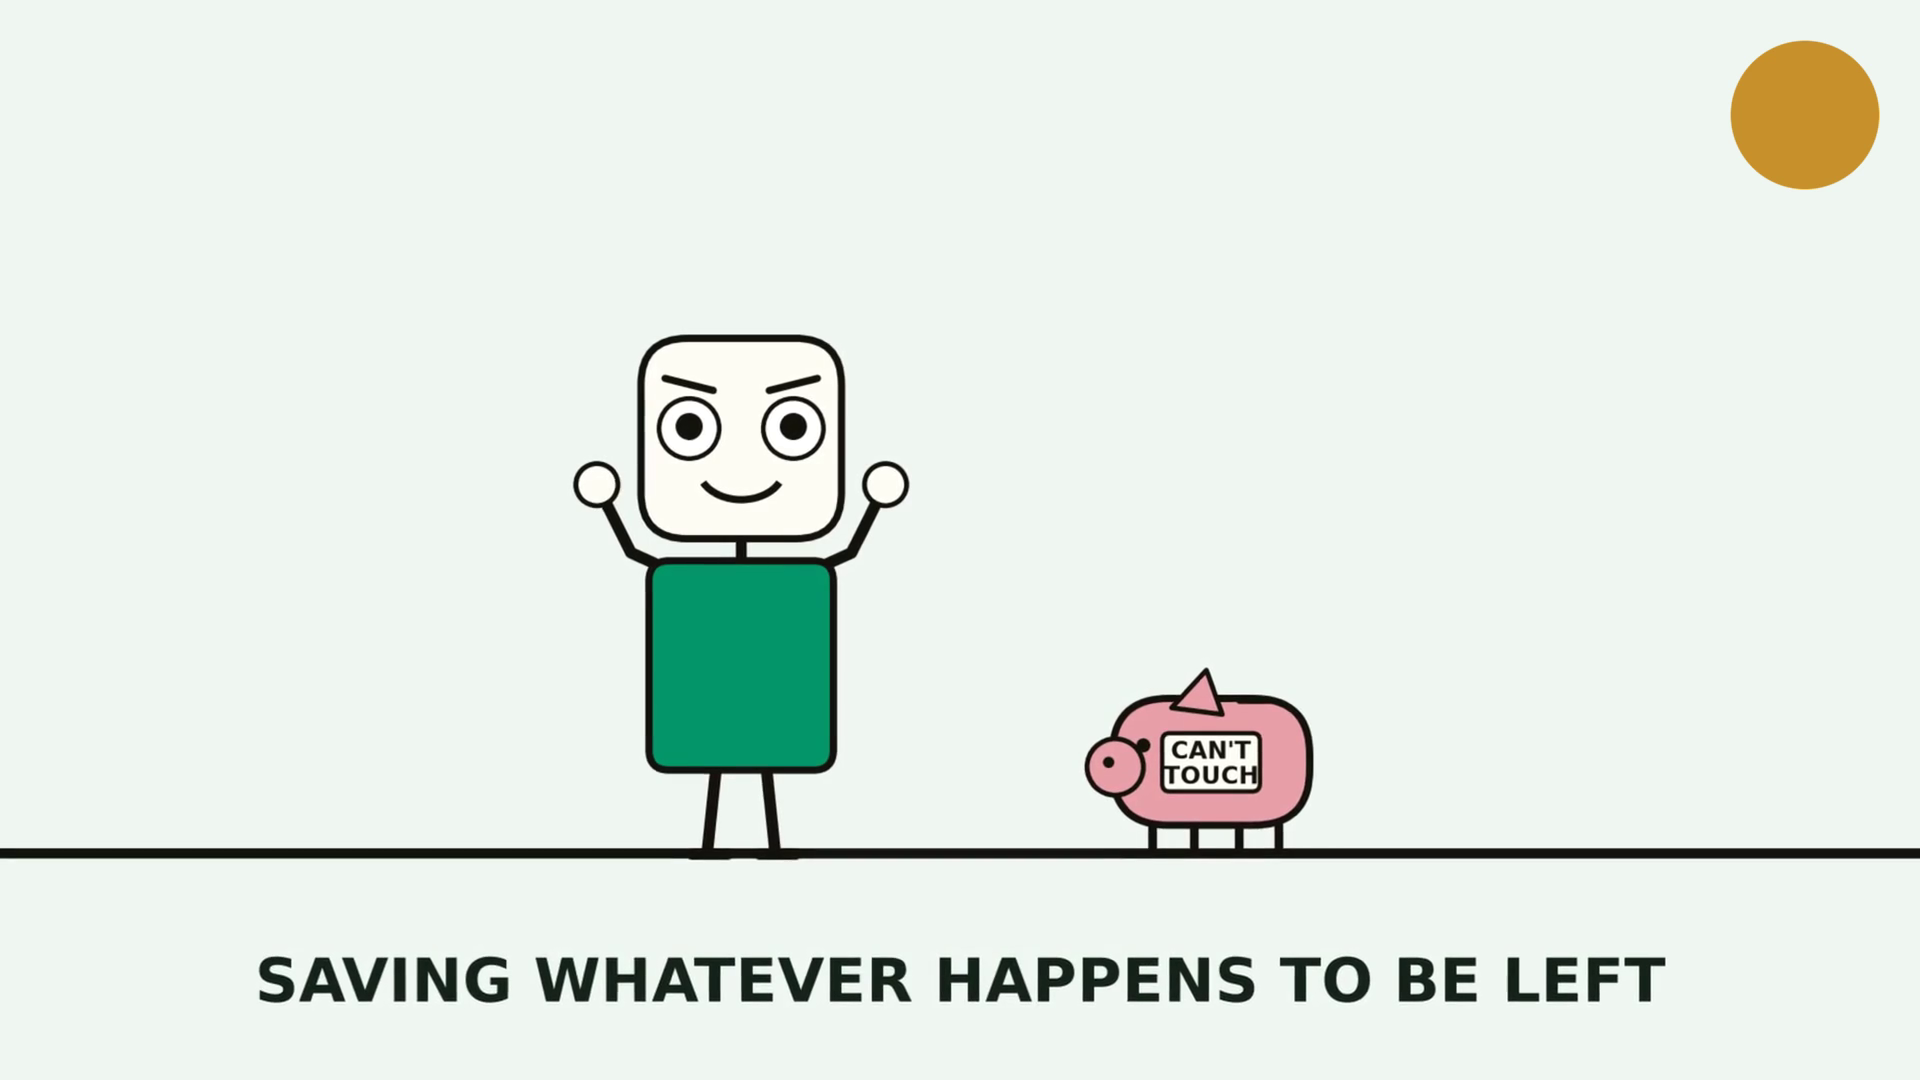
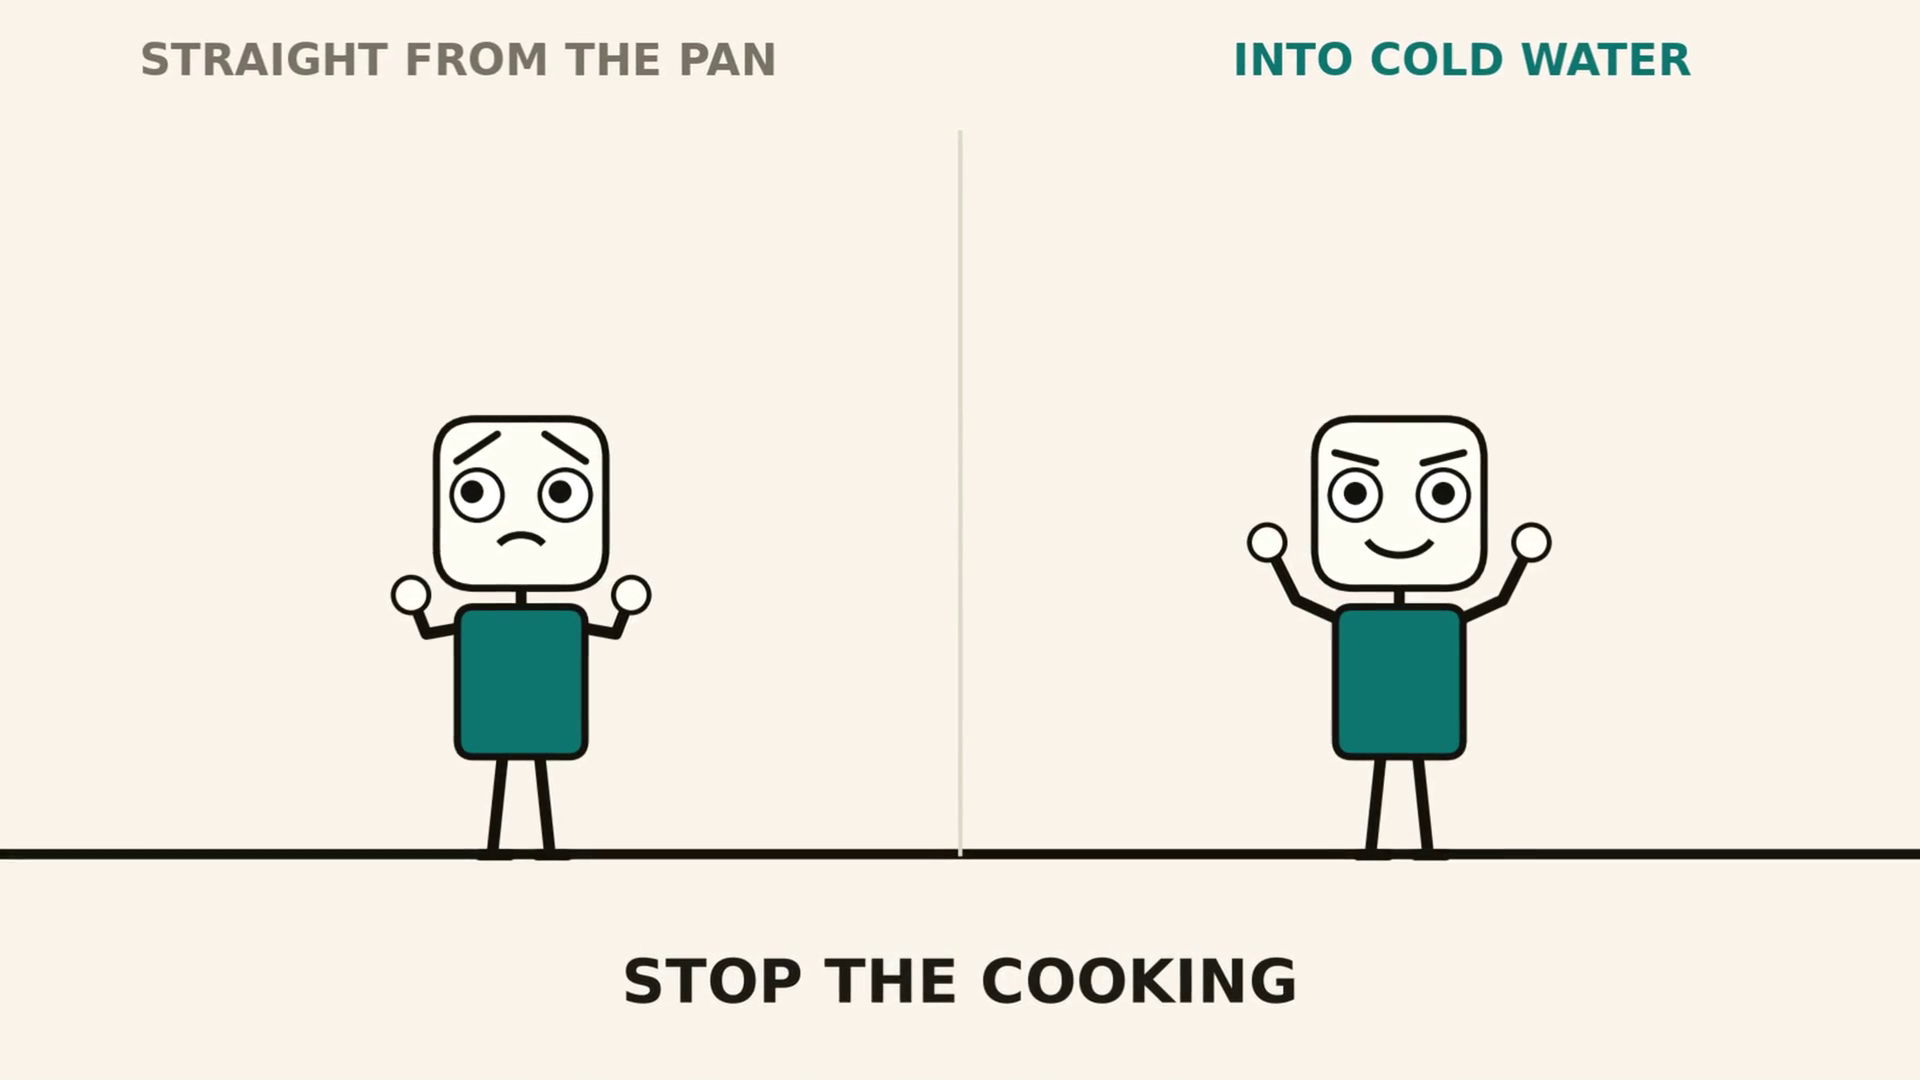
Replace the demo content, and make the split scene work for any subject
The example script, the screenshots and the README format section all
carried a real finance video's narration. They are now a short neutral
script about boiling an egg, and the screenshots are regenerated from a
project named demo by walking the actual first-run flow.

The split scene had coins and a money jar drawn into the layout itself,
so an egg script rendered dollar signs. Props there are now opt-in like
every other scene, and the two figures carry the before and after on
their own. Its labels are centred over their own half and shrink to fit,
which they did not do before: two long labels met in the middle.

Also: auto captions no longer end on a dangling word like THE, the first
project opens with the example script already loaded so Generate works
without writing anything, and the library wording no longer calls the
bundled tracks public domain, which they are not. They are original work
shipped under this repo's licence.

diff --git a/app/templates/index.html b/app/templates/index.html
@@ -19,16 +19,11 @@
   <p class="tagline">Write a script, pick a look, press Generate. Out comes a
   narrated video.</p>
 
+  {% if projects %}
   <section class="step">
     <h2><span class="stepnum">1</span>Project</h2>
-    <p class="hint">Each video is a project. Start a new one, or open one you
-    made before.</p>
-    <form class="row" method="post" action="/projects">
-      <input type="text" name="name" placeholder="Name the new video, like: credit scores"
-             required aria-label="New project name">
-      <button type="submit">Create</button>
-    </form>
-    {% if projects %}
+    <p class="hint">Each video is a project. Open one you made before, or start
+    a new one.</p>
     <ul class="projects">
       {% for p in projects %}
       <li>
@@ -37,8 +32,33 @@
       </li>
       {% endfor %}
     </ul>
-    {% endif %}
+    <form class="row" method="post" action="/projects">
+      <input type="text" name="name" placeholder="Name the next video"
+             required aria-label="New project name">
+      <button type="submit">Create</button>
+    </form>
   </section>
+
+  {% else %}
+  <section class="step">
+    <h2>Start here</h2>
+    <p>Every video you make is a <strong>project</strong>: one script, one
+    look, and the finished MP4, kept together in their own folder. You make a
+    new project for each video, and nothing is shared between them.</p>
+    <p class="hint">Your first project comes with a short example script
+    already written, so you can press Generate straight away and watch a real
+    video come out the other end. Once you have seen it work, delete the
+    example and write your own.</p>
+    <form class="row" method="post" action="/projects">
+      <input type="hidden" name="example" value="1">
+      <input type="text" name="name" value="demo" required
+             aria-label="Name for your first project">
+      <button type="submit">Create my first video</button>
+    </form>
+    <p class="hint">The first run downloads a voice for each line, so give it a
+    minute. After that, only the lines you change are made again.</p>
+  </section>
+  {% endif %}
 </main>
 </body>
 </html>

diff --git a/app/templates/project.html b/app/templates/project.html
@@ -3,7 +3,7 @@
 <head>
 <meta charset="utf-8">
 <meta name="viewport" content="width=device-width, initial-scale=1">
-<title>{{ name }} — script to vid</title>
+<title>{{ name }} - script to vid</title>
 <link rel="stylesheet" href="/static/style.css">
 <style>
 :root {
@@ -33,8 +33,9 @@
     <h2><span class="stepnum">2</span>Script</h2>
     <p class="hint">Blank lines separate beats. Start a line with # for a new
     chapter. Start a line with &gt; for a visual direction, like
-    <code>&gt; character: happy, cheer</code> or <code>&gt; prop: piggy</code>.
-    Plain paragraphs become narration.</p>
+    <code>&gt; character: happy, cheer</code> or
+    <code>&gt; caption: Words on screen</code>. Plain paragraphs become
+    narration.</p>
     <textarea id="script" spellcheck="false"
               placeholder="# My first chapter&#10;&#10;&gt; character: happy, cheer&#10;&#10;Write what you want the voice to say here.">{{ script }}</textarea>
     <p class="hint">
@@ -92,7 +93,7 @@
 
     {% if tracks %}
     <p class="hint" style="margin-top:18px"><strong>Pick from the starter
-    library.</strong> These are public domain, safe for monetised videos.</p>
+    library.</strong> These ship with the app and are free to use, including on a monetised channel.</p>
     <ul class="tracks">
       {% for t in tracks %}
       <li>

diff --git a/app/scenes.py b/app/scenes.py
@@ -128,26 +128,43 @@ def scene_bubbles(fig, b, T):
 
 
 def scene_split(fig, b, T):
-    """Before on the left, after on the right."""
+    """Before on the left, after on the right.
+
+    The two figures carry the contrast on their own, so a split works for any
+    subject. Props are drawn only when the script asks for one, scattered on
+    the left and gathered on the right.
+    """
     ax = _stage(fig)
     ch.ground(ax, GROUND_Y)
     ax.plot([0, 0], [GROUND_Y, 14.5], color=T.grid, lw=3, zorder=1)
 
-    _character(ax, {"cast_i": b.get("cast_i", 0)}, T, x=-11.5, s=1.35,
+    cast_i = b.get("cast_i", 0)
+    lx, rx = (-11.5, 11.5) if b.get("prop") else (-7.0, 7.0)
+    _character(ax, {"cast_i": cast_i}, T, x=lx, s=1.35,
                pose="shrug", expr="worried")
-    rng = np.random.default_rng(11)
-    for x, y in zip(rng.uniform(-7.5, -2.0, 6), rng.uniform(0.6, 2.2, 6)):
-        ch.prop_coin(ax, x, GROUND_Y + y, r=0.5)
-
-    _character(ax, {"cast_i": b.get("cast_i", 0)}, T, x=11.5, s=1.35,
+    _character(ax, {"cast_i": cast_i}, T, x=rx, s=1.35,
                pose="cheer", expr="happy")
-    ch.prop_jar(ax, 4.5, GROUND_Y, s=1.6, fill=0.8)
-    ch.prop_coin_stack(ax, 7.5, GROUND_Y + 0.55, n=4, r=0.5)
 
+    prop = b.get("prop")
+    if prop in ("coin", "coins"):
+        rng = np.random.default_rng(11)
+        for x, y in zip(rng.uniform(-7.5, -2.0, 6), rng.uniform(0.6, 2.2, 6)):
+            ch.prop_coin(ax, x, GROUND_Y + y, r=0.5)
+        ch.prop_coin_stack(ax, 6.0, GROUND_Y + 0.55, n=4, r=0.5)
+    elif prop == "jar":
+        ch.prop_jar(ax, -5.0, GROUND_Y, s=1.6, fill=0.1)
+        ch.prop_jar(ax, 5.0, GROUND_Y, s=1.6, fill=0.85)
+    elif prop == "piggy":
+        ch.prop_piggy(ax, -5.0, GROUND_Y, s=1.3)
+        ch.prop_piggy(ax, 5.0, GROUND_Y, s=1.3, label="FULL")
+
+    # each label is centred over its own half and shrunk to stay inside it,
+    # so two long labels cannot meet in the middle
     for x, text, col in ((-8.0, b.get("left", "Before"), T.dim),
                          (8.0, b.get("right", "After"), T.a2)):
-        ax.text(x, 15.6, text.upper(), ha="center", va="center",
-                fontsize=30, color=col, fontweight="bold")
+        t = ax.text(x, 15.6, text.upper(), ha="center", va="center",
+                    fontsize=30, color=col, fontweight="bold")
+        _fit(fig, t, 860)   # a half is 960 px wide at this stage scale
     _caption(fig, T, b.get("caption"))
 
 

diff --git a/tests/integration/test_routes.py b/tests/integration/test_routes.py
@@ -28,6 +28,42 @@ def test_create_project_redirects(client):
     shutil.rmtree(projects.path_of("route-test-99"), ignore_errors=True)
 
 
+def test_first_project_is_seeded_with_the_example(client):
+    """A new user must be able to press Generate without writing a script."""
+    import shutil
+    from app.script_parser import parse
+    try:
+        r = client.post("/projects", data={"name": "seeded demo", "example": "1"},
+                        follow_redirects=False)
+        assert r.status_code == 303
+        text = projects.script("seeded-demo")
+        assert text.strip(), "the first project should open with a script in it"
+        assert parse(text)["warnings"] == []
+    finally:
+        shutil.rmtree(projects.path_of("seeded-demo"), ignore_errors=True)
+
+
+def test_project_without_example_starts_blank(client):
+    import shutil
+    try:
+        client.post("/projects", data={"name": "blank one"},
+                    follow_redirects=False)
+        assert projects.script("blank-one") == ""
+    finally:
+        shutil.rmtree(projects.path_of("blank-one"), ignore_errors=True)
+
+
+def test_empty_state_explains_projects_and_offers_the_example(client, tmp_path,
+                                                              monkeypatch):
+    """With no projects yet, the page has to do the explaining itself."""
+    empty = tmp_path / "projects"
+    empty.mkdir()
+    monkeypatch.setattr(projects, "PROJECTS_DIR", empty)
+    body = client.get("/").text
+    assert "project" in body.lower()
+    assert 'name="example"' in body, "the first-run form should seed the example"
+
+
 def test_create_project_needs_a_name(client):
     r = client.post("/projects", data={"name": "!!!"})
     assert r.status_code == 400

diff --git a/app/main.py b/app/main.py
@@ -94,11 +94,11 @@ def home(request: Request):
 
 
 @app.post("/projects")
-def new_project(name: str = Form(...)):
+def new_project(name: str = Form(...), example: str = Form("")):
     slug = projects.slugify(name)
     if not slug:
         return fail("The project needs a name. Letters and numbers are fine.")
-    projects.create(slug)
+    projects.create(slug, with_example=bool(example))
     return RedirectResponse(f"/p/{slug}", status_code=303)
 
 
@@ -294,7 +294,7 @@ def _render_worker(name, beats, theme, voice, rate):
         n, label = STAGES[stage]
         beat = f" ({min(done + 1, total)} of {total})" if total > 1 else ""
         status.update(stage=stage, done=done, total=total,
-                      message=f"Stage {n} of 4 — {label}{beat}")
+                      message=f"Stage {n} of 4: {label}{beat}")
 
     try:
         r = engine.render_video(projects.path_of(name), beats, theme,

diff --git a/app/script_parser.py b/app/script_parser.py
@@ -28,10 +28,18 @@ SLIDES = ("sweep", "title", "gauge", "callout", "timeline", "jars", "terms",
 SCENES = ("character", "duo", "bubbles", "split", "chart")
 
 
+# a caption cut to a word limit often lands on a word that cannot end a
+# phrase, giving captions like "START WITH EGGS STRAIGHT FROM THE"
+_DANGLING = {"a", "an", "and", "as", "at", "but", "by", "for", "from", "in",
+             "into", "of", "on", "or", "so", "than", "that", "the", "then",
+             "to", "with", "your"}
+
+
 def _auto_headline(say, limit=6):
-    words = say.replace("\n", " ").split()
-    head = " ".join(words[:limit]).rstrip(".,;:!?")
-    return head.upper()
+    words = say.replace("\n", " ").split()[:limit]
+    while len(words) > 2 and words[-1].strip(".,;:!?").lower() in _DANGLING:
+        words.pop()
+    return " ".join(words).rstrip(".,;:!?").upper()
 
 
 def _split_direction(s):

diff --git a/tests/unit/test_parser.py b/tests/unit/test_parser.py
@@ -6,13 +6,15 @@ EXAMPLE = (Path(__file__).resolve().parents[2] / "example-script.txt").read_text
 
 
 def test_example_script():
+    """The bundled example is what a new project opens with, so it has to
+    parse cleanly and use a spread of directions."""
     r = parse(EXAMPLE)
     assert r["warnings"] == []
     visuals = [b["visual"] for b in r["beats"]]
-    assert visuals == ["chapter", "gauge", "scene_character",
-                       "chapter", "scene_character"]
+    assert visuals[0] == "chapter"
     assert r["beats"][0]["num"] == "01"
-    assert r["beats"][3]["num"] == "02"
+    assert {"scene_character", "scene_bubbles", "scene_split"} <= set(visuals)
+    assert all(b.get("caption") or b.get("headline") for b in r["beats"])
     assert r["words"] > 0
 
 

diff --git a/app/projects.py b/app/projects.py
@@ -15,6 +15,7 @@ from .themes import DEFAULT_THEME
 
 ROOT = Path(__file__).resolve().parent.parent
 PROJECTS_DIR = ROOT / "projects"
+EXAMPLE_SCRIPT = ROOT / "example-script.txt"
 
 DEFAULTS = {"theme": DEFAULT_THEME, "voice": VOICE, "rate": RATE}
 
@@ -50,11 +51,13 @@ def list_projects():
     return out
 
 
-def create(name):
+def create(name, with_example=False):
     p = path_of(name)
     p.mkdir(parents=True, exist_ok=True)
     if not (p / "project.json").exists():
         save_settings(p.name, DEFAULTS)
+    if with_example and not (p / "script.txt").exists() and EXAMPLE_SCRIPT.exists():
+        save_script(p.name, EXAMPLE_SCRIPT.read_text())
     return p
 
 

diff --git a/README.md b/README.md
@@ -1,30 +1,65 @@
 # script to vid
 
-Turns a written narration script into a finished, narrated explainer video —
-no editing software, no cost per video.
+Turns a written narration script into a finished, narrated explainer video.
+No editing software, no cost per video.
 
 ![The page](docs/the-page.png)
 
 ![A still from a finished video](docs/a-still.png)
 
+## Why this exists
+
+Making a video usually means paying an editor, or paying per render for an AI
+video tool. If you have something worth explaining but not the budget to
+produce it, that cost is where you stop.
+
+This turns a written script into a finished video on your own machine, for
+nothing. It runs locally, there is no account and no per-video charge, so
+running out of money is not the thing that stops you starting.
+
+## Before you install
+
+You need **Python 3.10 or newer**. If you do not have it, download it from
+[python.org/downloads](https://www.python.org/downloads/) and install it
+first. On Windows, tick **Add python.exe to PATH** on the first screen of the
+Python installer.
+
+The installer will tell you plainly if Python is missing, so if you are not
+sure, just carry on and it will check for you.
+
 ## Install
 
-1. Download this repository (green **Code** button → **Download ZIP**) and unzip it.
-2. Windows: right-click `install-windows.ps1` and choose **Run with PowerShell**.
-   Mac: open Terminal in the folder and run `./install-mac.sh`.
-3. When it says it's done, use the **script to vid** shortcut on your Desktop.
+1. Download this repository: the green **Code** button, then **Download ZIP**.
+   Unzip it somewhere you can find again, like your Documents folder.
 
-A browser tab opens at a local address. Everything runs on your machine; only
-the voice generation talks to the internet.
+2. **Windows:** double-click `install-windows.bat`.
+   **Mac:** open Terminal in the folder and run `./install-mac.sh`.
+
+   Windows may warn that the file came from the internet. Choose **More info**,
+   then **Run anyway**. The installer sets up Python packages and downloads
+   ffmpeg, which takes a few minutes the first time.
+
+3. When it says it is done, start the app:
+   - Use the **script to vid** shortcut on your Desktop, or
+   - if the shortcut is not there, open the folder you unzipped and
+     double-click **`run.bat`** on Windows or **`run.sh`** on a Mac.
+
+A browser tab opens showing the app. Everything runs on your machine. The only
+thing that leaves it is the text of your script, sent to Microsoft's free
+voice service to be read aloud.
 
 ## Use
 
-Write a script, pick a look, add a logo and music if you want them, press
-**Generate**. Download the MP4 and the subtitles when it finishes. Each video
+Your first project starts with a short example script already loaded, so you
+can press **Generate** straight away and watch a real video come out. After
+that, replace the script with your own.
+
+Write a script, pick a look, add a logo and music if you want them, then press
+Generate. Download the MP4 and the subtitle file when it finishes. Each video
 is a project, and duplicating one starts the next video with the same look.
 
-Re-running is cheap: editing one line only regenerates that line, and changing
-the theme reuses the whole voiceover.
+Re-running is cheap: editing one line only remakes that line, and changing the
+theme reuses the whole voiceover.
 
 ## The script format
 
@@ -32,26 +67,36 @@ Blank lines separate beats. `#` starts a chapter. `>` is a visual direction.
 Everything else is narration.
 
 ```
-# Your credit score starts early
+# How to boil an egg
 
-> gauge
+> character: happy, cheer
+> caption: Cover them by an inch
 
-No credit is not the same as good credit.
+Start with eggs straight from the fridge, and a pan deep enough to cover them
+by about an inch of water.
 
-> character: worried, think, triangle
-> caption: It's a new vocabulary, not a flaw
+> bubbles: soft?, medium?, hard?
+> caption: One pan, three results
 
-Terms like APR and escrow get thrown at you like you already know them.
+Six minutes gives you a runny yolk. Eight is soft but set. Ten and it is firm
+all the way through.
 ```
 
 Directions include `character`, `duo`, `bubbles`, `split`, `chart`, `gauge`,
 `timeline`, `growth`, `jars`, `terms`, `callout`, `quiet`, `recap`, `title`,
-`sweep`, `outro`, and the modifiers `caption`, `sub` and `prop` (piggy, coin,
-coins, jar). Anything the parser doesn't recognise becomes a plain caption
-slide and a note above the Generate button — never an error.
+`sweep`, `outro`, and the modifiers `caption`, `sub` and `prop`. Anything the
+parser does not recognise becomes a plain caption slide and a note above the
+Generate button, never an error.
+
+The full example is in `example-script.txt`.
 
 ## Licence
 
-MIT. Everything here is original, including the character art and the bundled
-music, which is generated from code in this repository and is safe to use in
-monetised videos.
+You can use this for anything, including commercially. The videos you make are
+yours, and nobody has a claim on them.
+
+The bundled music and the character drawings are original work that ships with
+this project, with no rights held by anyone else, so a video using them is safe
+to monetise. No attribution is required.
+
+The code is MIT licensed. See [LICENSE](LICENSE).
